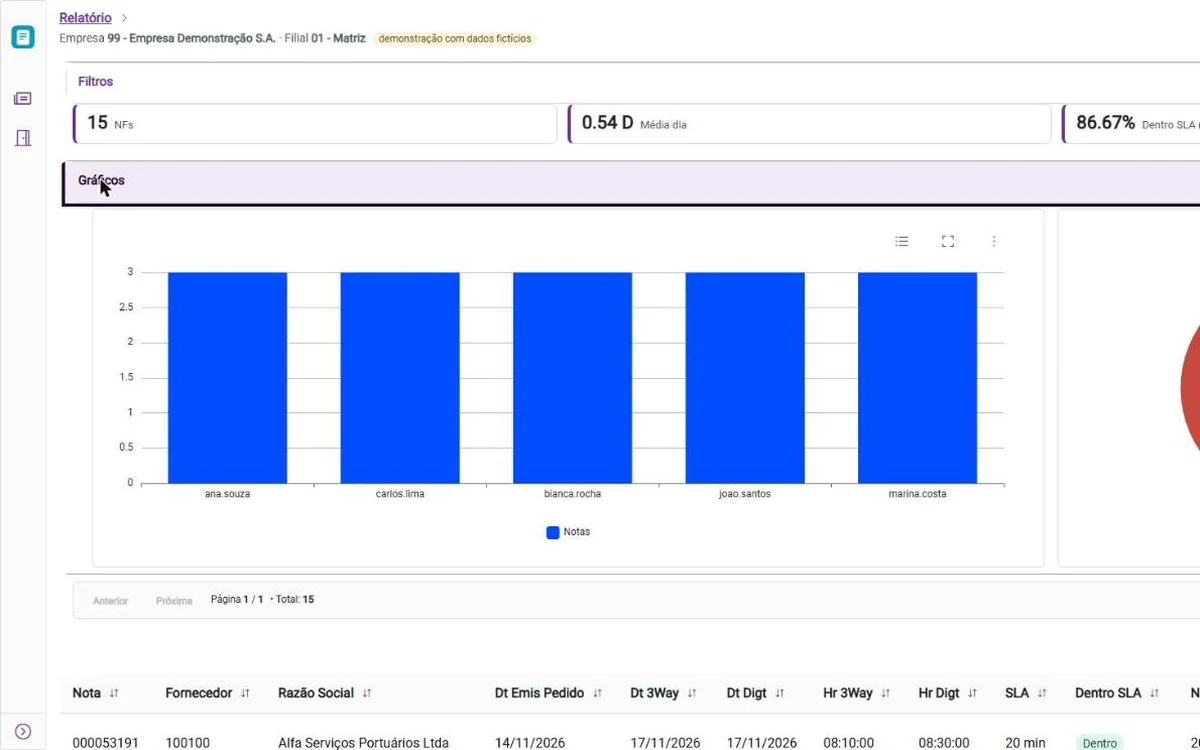
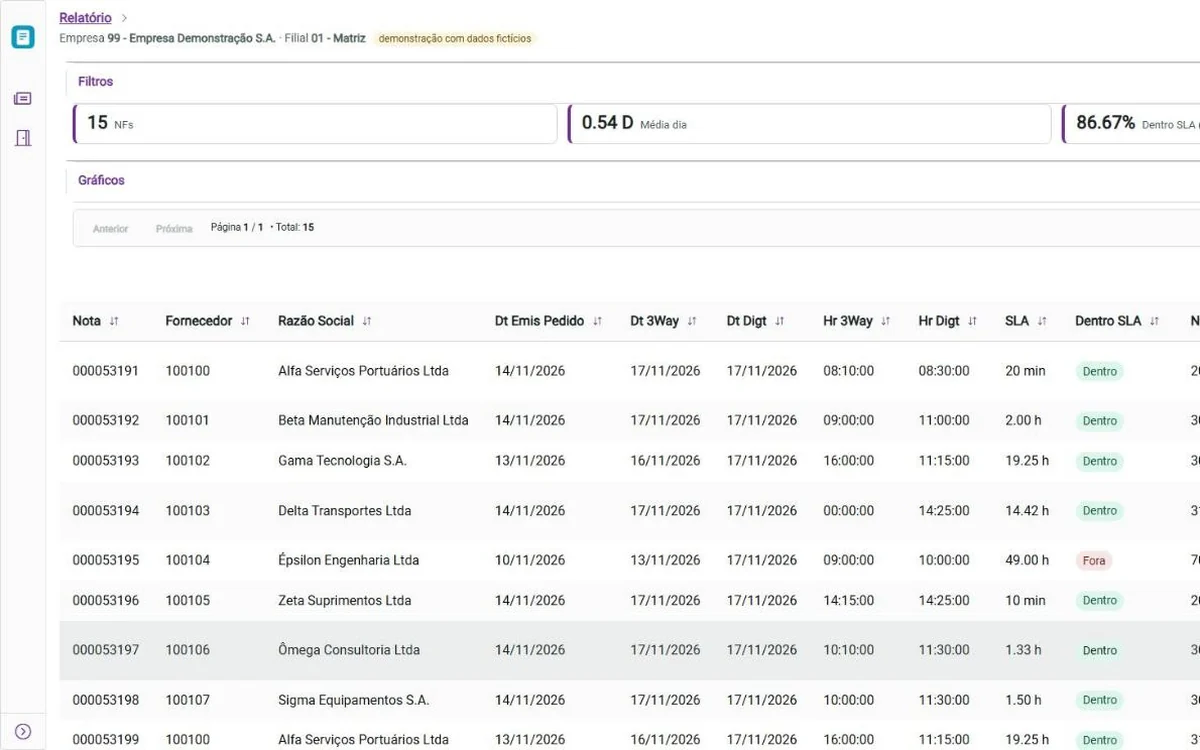
feat: projetos Protheus primeiro e separados dos sites
Cada grupo vira um bloco próprio, com selo, título, descrição e quantidade: telas web para o Protheus (demonstrações com dados fictícios) em cima, sites para clientes embaixo. Marca 'dados fictícios' / 'no ar' na barra do navegador de cada card, botão 'Ver demonstração' e grade de 3 colunas no grupo Protheus. Nova imagem do Invoice Report v2.

diff --git a/src/app/shared/language.service.ts b/src/app/shared/language.service.ts
@@ -1,4 +1,4 @@
-import { Injectable, signal } from '@angular/core';
+import { Injectable, signal } from '@angular/core';
 
 export type Language = 'pt' | 'en' | 'es';
 
@@ -30,9 +30,15 @@ const translations: Record<Language, Record<string, string>> = {
     'stack.back': 'Back-end',
     'stack.erp': 'ERP',
     'projects.title': 'Projetos',
-    'projects.lead': 'Uma seleção de trabalhos publicados: sites entregues para clientes e telas web ligadas ao Protheus.',
+    'projects.lead': 'Telas web ligadas ao ERP TOTVS Protheus e, em seguida, sites entregues para clientes.',
     'projects.group.client': 'Sites para clientes',
-    'projects.group.erp': 'Sistemas e dashboards ERP',
+    'projects.group.client.badge': 'Sites publicados',
+    'projects.group.client.desc': 'Sites institucionais em produção, entregues do layout ao deploy.',
+    'projects.tag.live': 'no ar',
+    'projects.group.erp': 'Telas web para o Protheus',
+    'projects.group.erp.badge': 'ERP TOTVS Protheus',
+    'projects.group.erp.desc': 'Relatórios e dashboards em Angular + PO-UI que rodam dentro do Protheus. As demonstrações usam dados fictícios.',
+    'projects.tag.demo': 'dados fictícios',
     'projects.memorial':
       'Site institucional com planos, serviços, galeria do crematório e atendimento direto pelo WhatsApp.',
     'projects.santoanjo':
@@ -48,7 +54,7 @@ const translations: Record<Language, Record<string, string>> = {
     'projects.ibscbs':
       'Livro fiscal item a item com CBS e IBS da reforma tributária, CST e cClassTrib, com consulta otimizada no banco.',
     'projects.visit': 'Visitar site',
-    'projects.demo': 'Demo',
+    'projects.demo': 'Ver demonstração',
     'projects.source': 'Código',
     'projects.newTab': 'abre em nova aba',
     'exp.title': 'Experiência',
@@ -108,9 +114,15 @@ const translations: Record<Language, Record<string, string>> = {
     'stack.back': 'Back-end',
     'stack.erp': 'ERP',
     'projects.title': 'Projects',
-    'projects.lead': 'A selection of published work: websites delivered to clients and web screens connected to Protheus.',
+    'projects.lead': 'Web screens connected to the TOTVS Protheus ERP, followed by websites delivered to clients.',
     'projects.group.client': 'Client websites',
-    'projects.group.erp': 'ERP systems and dashboards',
+    'projects.group.client.badge': 'Live websites',
+    'projects.group.client.desc': 'Company websites in production, delivered from layout to deploy.',
+    'projects.tag.live': 'live',
+    'projects.group.erp': 'Web screens for Protheus',
+    'projects.group.erp.badge': 'TOTVS Protheus ERP',
+    'projects.group.erp.desc': 'Angular + PO-UI reports and dashboards that run inside Protheus. Demos use fictitious data.',
+    'projects.tag.demo': 'fictitious data',
     'projects.memorial':
       'Business website with plans, services, crematorium gallery and direct WhatsApp support.',
     'projects.santoanjo':
@@ -126,7 +138,7 @@ const translations: Record<Language, Record<string, string>> = {
     'projects.ibscbs':
       'Item-level tax ledger with Brazil’s new CBS and IBS taxes, CST and cClassTrib, backed by a tuned database query.',
     'projects.visit': 'Visit website',
-    'projects.demo': 'Demo',
+    'projects.demo': 'View demo',
     'projects.source': 'Source',
     'projects.newTab': 'opens in a new tab',
     'exp.title': 'Experience',
@@ -186,9 +198,15 @@ const translations: Record<Language, Record<string, string>> = {
     'stack.back': 'Back-end',
     'stack.erp': 'ERP',
     'projects.title': 'Proyectos',
-    'projects.lead': 'Una selección de trabajos publicados: sitios entregados a clientes y pantallas web conectadas a Protheus.',
+    'projects.lead': 'Pantallas web conectadas al ERP TOTVS Protheus y, a continuación, sitios entregados a clientes.',
     'projects.group.client': 'Sitios para clientes',
-    'projects.group.erp': 'Sistemas y dashboards ERP',
+    'projects.group.client.badge': 'Sitios publicados',
+    'projects.group.client.desc': 'Sitios institucionales en producción, entregados del diseño al deploy.',
+    'projects.tag.live': 'en línea',
+    'projects.group.erp': 'Pantallas web para Protheus',
+    'projects.group.erp.badge': 'ERP TOTVS Protheus',
+    'projects.group.erp.desc': 'Reportes y dashboards en Angular + PO-UI que se ejecutan dentro de Protheus. Las demos usan datos ficticios.',
+    'projects.tag.demo': 'datos ficticios',
     'projects.memorial':
       'Sitio institucional con planes, servicios, galería del crematorio y atención directa por WhatsApp.',
     'projects.santoanjo':
@@ -204,7 +222,7 @@ const translations: Record<Language, Record<string, string>> = {
     'projects.ibscbs':
       'Libro fiscal ítem por ítem con CBS e IBS de la reforma tributaria brasileña, CST y cClassTrib, con consulta optimizada.',
     'projects.visit': 'Visitar sitio',
-    'projects.demo': 'Demo',
+    'projects.demo': 'Ver demo',
     'projects.source': 'Código',
     'projects.newTab': 'abre en una nueva pestaña',
     'exp.title': 'Experiencia',

diff --git a/src/app/sections/projetos/projetos.html b/src/app/sections/projetos/projetos.html
@@ -5,42 +5,60 @@
   </header>
 
   @for (group of groups; track group.category) {
-    <h3 class="group-title">{{ i18n.t(group.titleKey) }}</h3>
-    <div class="bento projects" [class.erp]="group.category === 'erp'">
-      @for (project of group.items; track project.id; let first = $first) {
-        <article class="tile project" [class.featured]="first && group.category === 'client'">
-          <div class="preview" [attr.data-project]="project.id" aria-hidden="true">
-            <div class="browser-bar">
-              <span></span><span></span><span></span>
-              <em>{{ project.domain }}</em>
+    <section
+      class="group"
+      [class.group-erp]="group.category === 'erp'"
+      [class.group-client]="group.category === 'client'"
+      [attr.aria-labelledby]="'group-' + group.category"
+    >
+      <header class="group-head">
+        <span class="group-badge">{{ i18n.t(group.badgeKey) }}</span>
+        <div class="group-text">
+          <h3 [id]="'group-' + group.category">
+            {{ i18n.t(group.titleKey) }}
+            <span class="group-count">{{ group.items.length }}</span>
+          </h3>
+          <p>{{ i18n.t(group.descKey) }}</p>
+        </div>
+      </header>
+
+      <div class="bento projects" [class.erp]="group.category === 'erp'">
+        @for (project of group.items; track project.id; let first = $first) {
+          <article class="tile project" [class.featured]="first && group.category === 'client'">
+            <div class="preview" [attr.data-project]="project.id" aria-hidden="true">
+              <div class="browser-bar">
+                <span></span><span></span><span></span>
+                <em>{{ project.domain }}</em>
+                <b class="preview-tag">{{ i18n.t(group.tagKey) }}</b>
+              </div>
+              <div class="preview-body">
+                <img [src]="project.image" alt="" width="1200" height="750" loading="lazy" decoding="async" />
+              </div>
             </div>
-            <div class="preview-body">
-              <img [src]="project.image" alt="" width="1200" height="750" loading="lazy" decoding="async" />
-            </div>
-          </div>
-          <div class="project-body">
-            <h4>{{ project.name }}</h4>
-            <p>{{ i18n.t('projects.' + project.id) }}</p>
-            <ul class="chips" [attr.aria-label]="i18n.t('stack.title')">
-              @for (tech of project.stack; track tech) {
-                <li>{{ tech }}</li>
-              }
-            </ul>
-            <div class="actions">
-              <a class="btn primary small" [href]="project.url" target="_blank" rel="noopener">
-                {{ i18n.t(project.repo ? 'projects.demo' : 'projects.visit') }}
-                <span class="sr-only">— {{ project.name }} ({{ i18n.t('projects.newTab') }})</span>
-              </a>
-              @if (project.repo) {
-                <a class="btn secondary small" [href]="project.repo" target="_blank" rel="noopener">
-                  {{ i18n.t('projects.source') }}
+            <div class="project-body">
+              <h4>{{ project.name }}</h4>
+              <p>{{ i18n.t('projects.' + project.id) }}</p>
+              <ul class="chips" [attr.aria-label]="i18n.t('stack.title')">
+                @for (tech of project.stack; track tech) {
+                  <li>{{ tech }}</li>
+                }
+              </ul>
+              <div class="actions">
+                <a class="btn primary small" [href]="project.url" target="_blank" rel="noopener">
+                  {{ i18n.t(project.repo ? 'projects.demo' : 'projects.visit') }}
                   <span class="sr-only">— {{ project.name }} ({{ i18n.t('projects.newTab') }})</span>
                 </a>
-              }
+                @if (project.repo) {
+                  <a class="btn secondary small" [href]="project.repo" target="_blank" rel="noopener">
+                    {{ i18n.t('projects.source') }}
+                    <span class="sr-only">— {{ project.name }} ({{ i18n.t('projects.newTab') }})</span>
+                  </a>
+                }
+              </div>
             </div>
-          </div>
-        </article>
-      }
-    </div>
+          </article>
+        }
+      </div>
+    </section>
   }
 </section>

diff --git a/src/app/sections/projetos/projetos.css b/src/app/sections/projetos/projetos.css
@@ -1,16 +1,106 @@
 :host {
   display: block;
+  /* Cor de cada grupo: Protheus em verde-azulado, sites no azul do tema. */
+  --erp: #3fd1bb;
+  --erp-soft: rgba(63, 209, 187, 0.12);
+  --site: var(--accent);
+  --site-soft: var(--accent-soft);
 }
 
-.group-title {
-  margin-top: 10px;
+:host-context(body.theme-light) {
+  --erp: #0b7a6b;
+  --erp-soft: rgba(11, 122, 107, 0.09);
+}
+
+/* Cada grupo é um bloco próprio: borda e selo na cor do grupo, e espaço grande entre os dois. */
+.group {
+  --group: var(--site);
+  --group-soft: var(--site-soft);
+  margin-top: 18px;
+  padding: 18px;
+  border: 1px solid var(--border);
+  border-top: 3px solid var(--group);
+  border-radius: var(--radius);
+  background: linear-gradient(180deg, var(--group-soft), transparent 220px);
+}
+
+.group + .group {
+  margin-top: 44px;
+}
+
+.group-erp {
+  --group: var(--erp);
+  --group-soft: var(--erp-soft);
+}
+
+.group-head {
+  display: flex;
+  flex-wrap: wrap;
+  align-items: flex-start;
+  gap: 10px 16px;
+  margin-bottom: 16px;
   padding: 0 4px;
+}
+
+.group-badge {
+  flex: none;
+  padding: 5px 12px;
+  border: 1px solid var(--group);
+  border-radius: 999px;
+  color: var(--group);
   font-family: 'Plus Jakarta Sans', 'Segoe UI', sans-serif;
-  font-size: 0.78rem;
-  font-weight: 700;
-  letter-spacing: 0.1em;
+  font-size: 0.72rem;
+  font-weight: 800;
+  letter-spacing: 0.08em;
   text-transform: uppercase;
+}
+
+.group-text {
+  flex: 1 1 320px;
+  min-width: 0;
+}
+
+.group-text h3 {
+  display: flex;
+  align-items: center;
+  gap: 10px;
+  margin: 0 0 4px;
+  font-size: 1.3rem;
+}
+
+.group-count {
+  padding: 1px 9px;
+  border-radius: 999px;
+  background: var(--group-soft);
+  color: var(--group);
+  font-size: 0.8rem;
+  font-weight: 700;
+}
+
+.group-text p {
+  margin: 0;
   color: var(--muted);
+}
+
+/* Marca na barra do navegador do card: "dados fictícios" no Protheus, "no ar" nos sites. */
+.preview-tag {
+  flex: none;
+  padding: 2px 8px;
+  border-radius: 999px;
+  background: rgba(0, 0, 0, 0.35);
+  color: #ffffff;
+  font-size: 0.66rem;
+  font-weight: 700;
+  letter-spacing: 0.04em;
+  white-space: nowrap;
+}
+
+.group-erp .preview-tag {
+  background: rgba(11, 122, 107, 0.85);
+}
+
+.group-client .preview-tag {
+  background: rgba(31, 95, 191, 0.85);
 }
 
 .project {
@@ -68,6 +158,11 @@
 .preview[data-project='invoice'] {
   --tone-a: #0f7a6a;
   --tone-b: #0a2f2a;
+}
+
+.preview[data-project='ibscbs'] {
+  --tone-a: #8a5a1c;
+  --tone-b: #2e1f0b;
 }
 
 .browser-bar {
@@ -156,7 +251,8 @@
 }
 
 @media (min-width: 1024px) {
-  .projects:not(.erp) {
+  /* Protheus também em 3 colunas: os três cards lado a lado, sem um sobrando sozinho. */
+  .projects {
     grid-template-columns: repeat(3, 1fr);
   }
 

diff --git a/src/app/sections/projetos/projetos.ts b/src/app/sections/projetos/projetos.ts
@@ -2,6 +2,15 @@ import { Component, inject } from '@angular/core';
 import { LanguageService } from '../../shared/language.service';
 import { PROJECTS, ProjectCategory } from '../../shared/portfolio-data';
 
+interface ProjectGroup {
+  category: ProjectCategory;
+  badgeKey: string;
+  titleKey: string;
+  descKey: string;
+  tagKey: string;
+  items: typeof PROJECTS;
+}
+
 @Component({
   selector: 'app-projetos',
   imports: [],
@@ -11,16 +20,23 @@ import { PROJECTS, ProjectCategory } from '../../shared/portfolio-data';
 export class Projetos {
   readonly i18n = inject(LanguageService);
 
-  readonly groups: { category: ProjectCategory; titleKey: string; items: typeof PROJECTS }[] = [
-    {
-      category: 'client',
-      titleKey: 'projects.group.client',
-      items: PROJECTS.filter((project) => project.category === 'client')
-    },
+  // Protheus primeiro: é o foco profissional; os sites para clientes vêm depois, em bloco separado.
+  readonly groups: ProjectGroup[] = [
     {
       category: 'erp',
+      badgeKey: 'projects.group.erp.badge',
       titleKey: 'projects.group.erp',
+      descKey: 'projects.group.erp.desc',
+      tagKey: 'projects.tag.demo',
       items: PROJECTS.filter((project) => project.category === 'erp')
+    },
+    {
+      category: 'client',
+      badgeKey: 'projects.group.client.badge',
+      titleKey: 'projects.group.client',
+      descKey: 'projects.group.client.desc',
+      tagKey: 'projects.tag.live',
+      items: PROJECTS.filter((project) => project.category === 'client')
     }
   ];
 }
